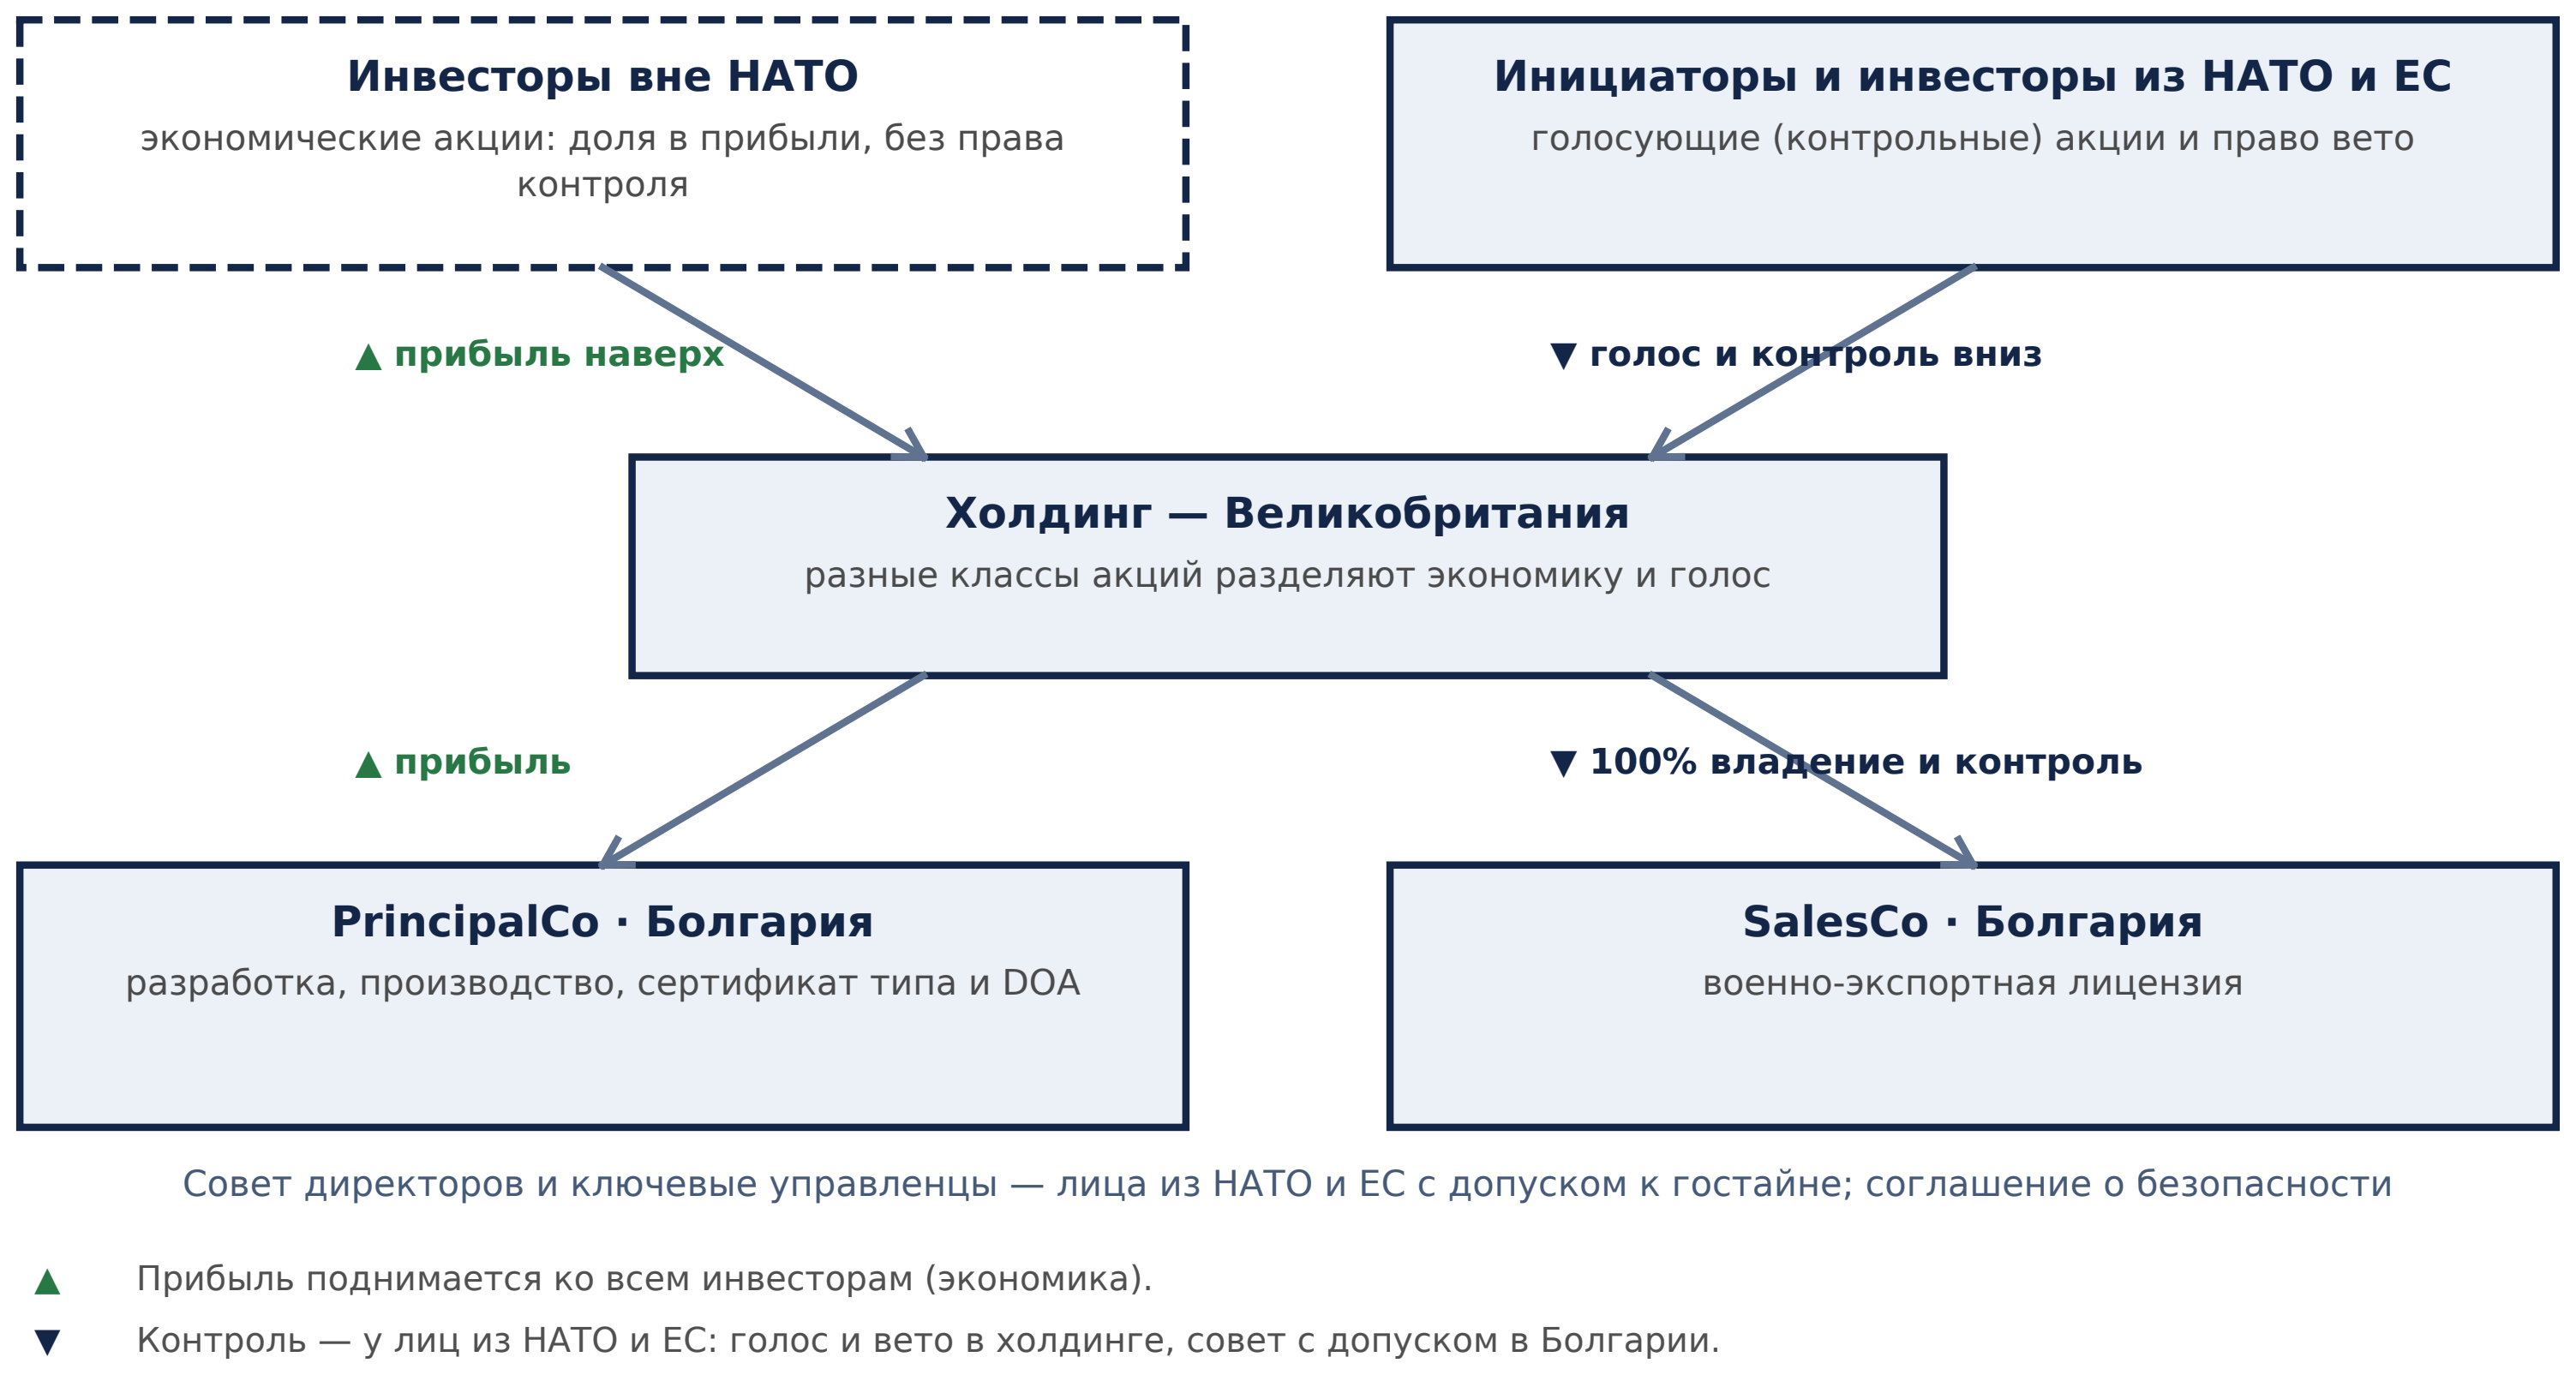
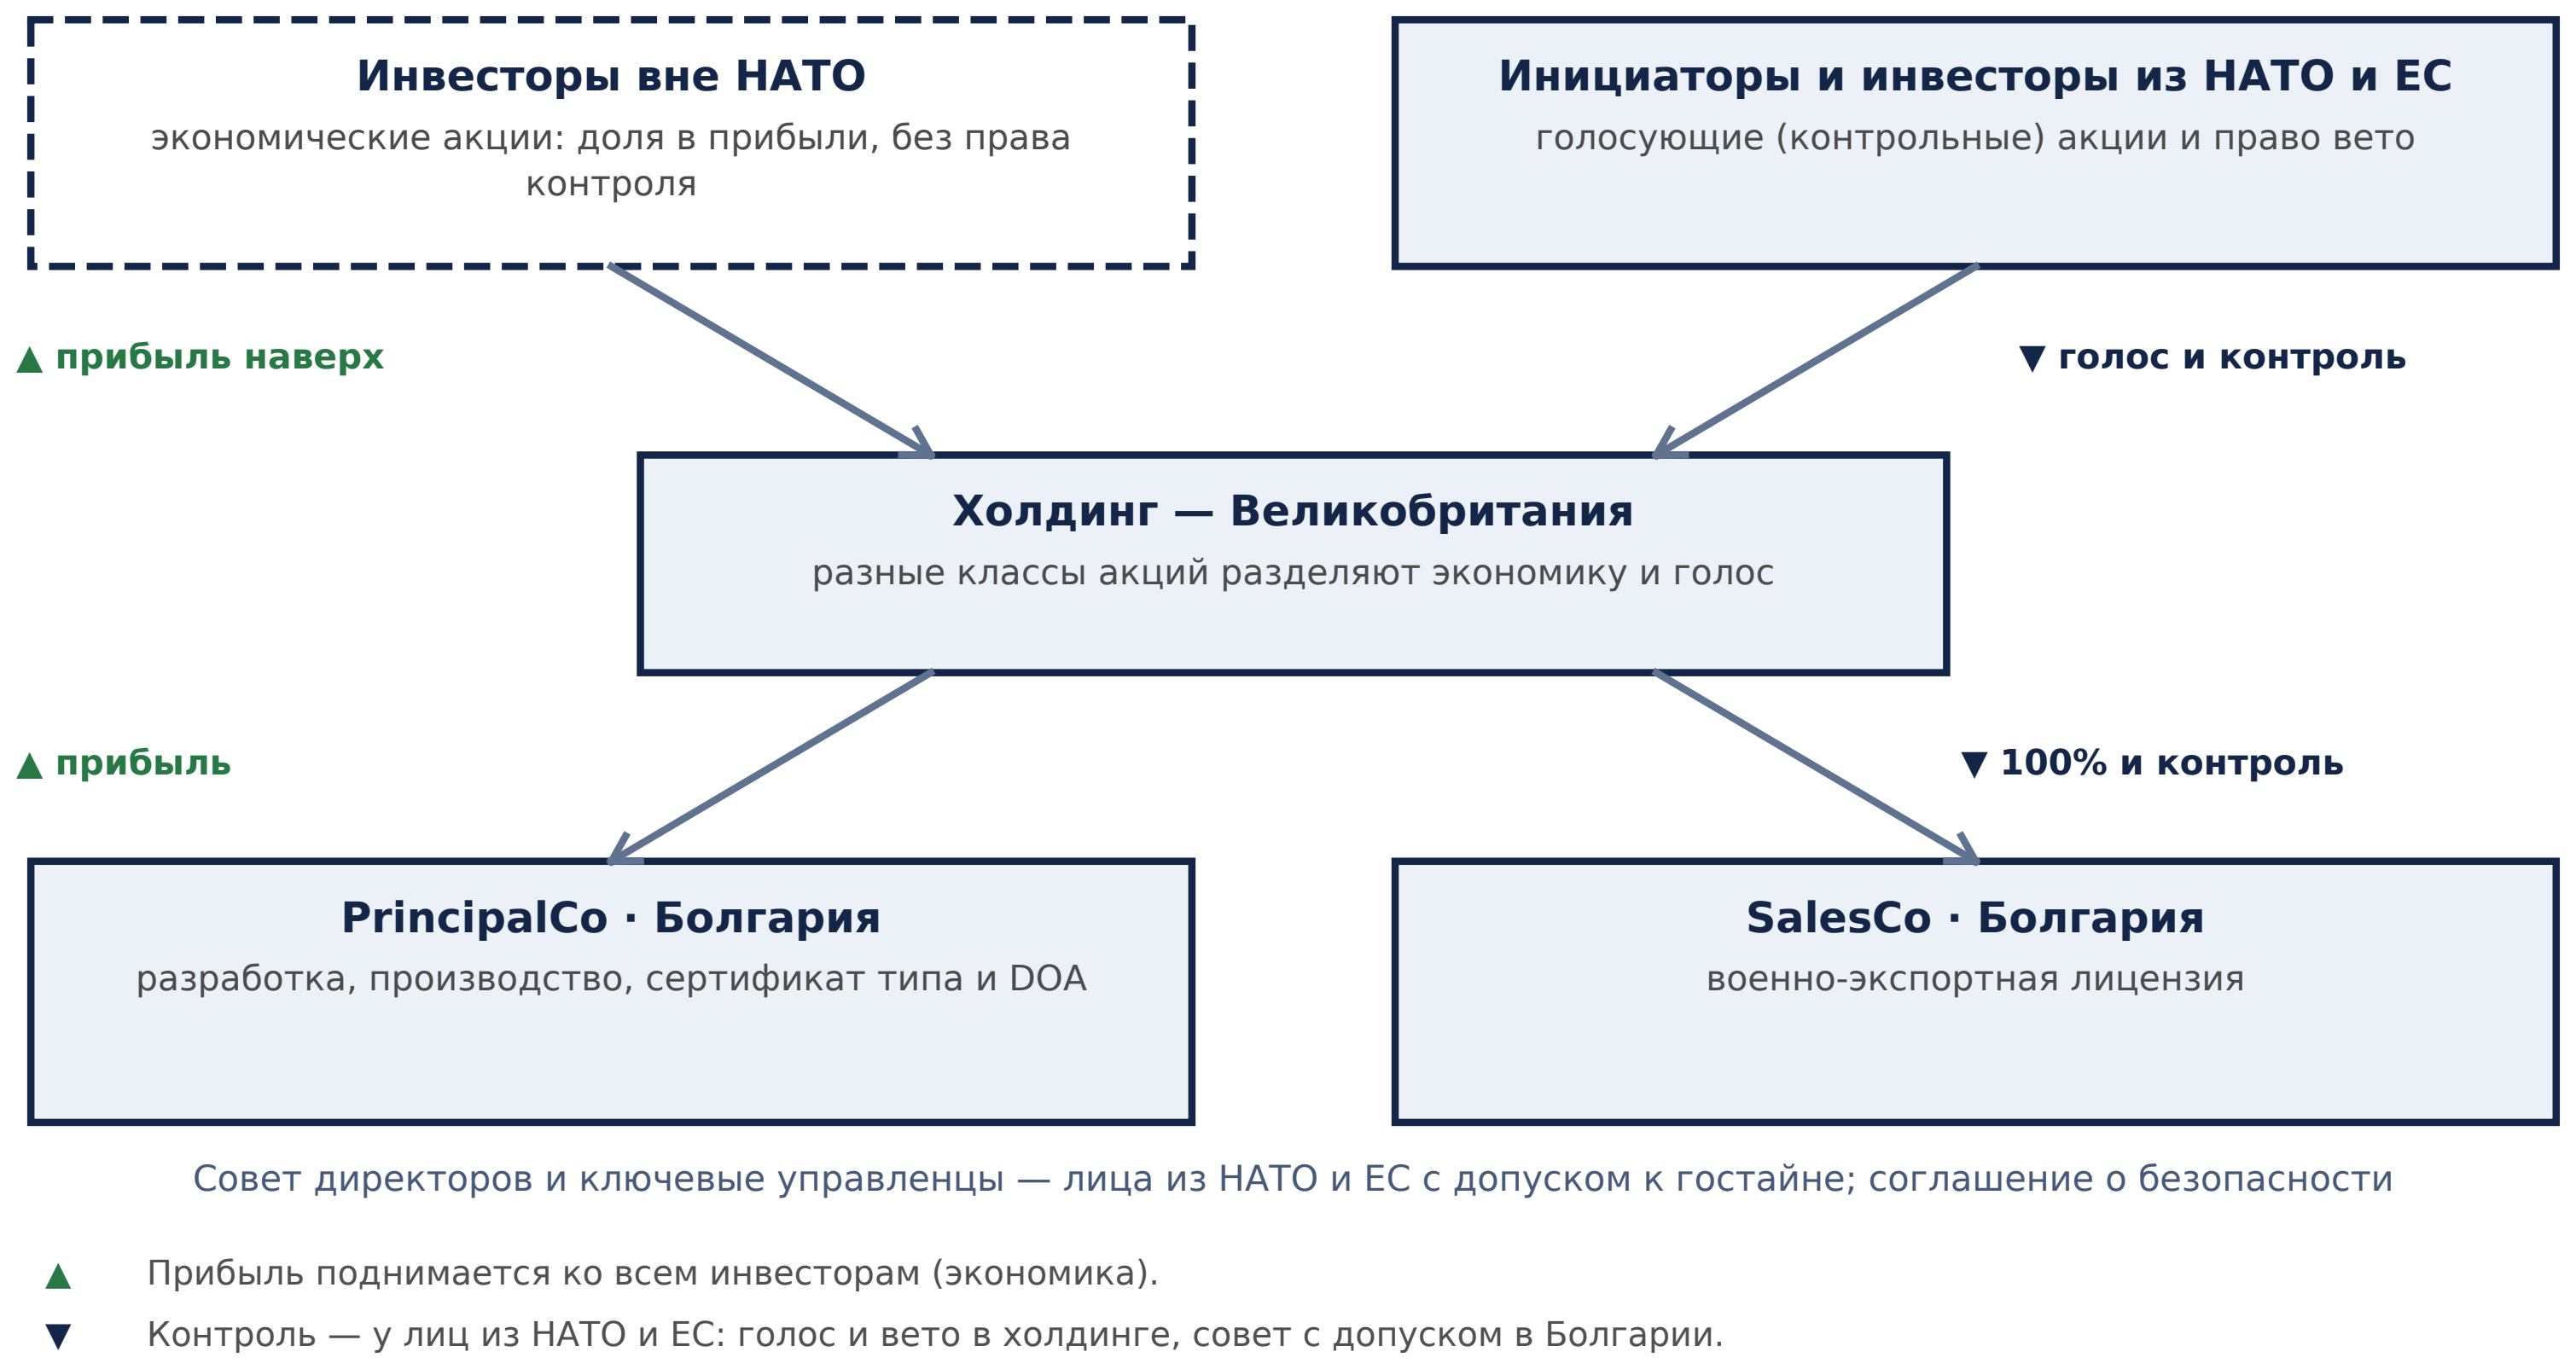
Control diagram: move flow labels clear of connector lines (no overlap)
https://claude.ai/code/session_01JTbBsiSWXRS1fuAGFXnjiU

diff --git a/gen_assets.py b/gen_assets.py
@@ -105,10 +105,10 @@ class A(FPDF):
         conn(58,y1+h1,80,y2); conn(152,y1+h1,130,y2)
         conn(80,y2+h2,58,y3); conn(130,y2+h2,152,y3)
         # flow markers
-        self.set_font("D","B",6.8); self.set_text_color(*GRN); self.set_xy(40,y1+h1+4.5); self.cell(36,3,"▲ прибыль наверх")
-        self.set_text_color(*NV); self.set_xy(122,y1+h1+4.5); self.cell(48,3,"▼ голос и контроль вниз")
-        self.set_text_color(*GRN); self.set_xy(40,y2+h2+4.5); self.cell(36,3,"▲ прибыль")
-        self.set_text_color(*NV); self.set_xy(122,y2+h2+4.5); self.cell(48,3,"▼ 100% владение и контроль")
+        self.set_font("D","B",6.8); self.set_text_color(*GRN); self.set_xy(16,y1+h1+4.8); self.cell(42,3,"▲ прибыль наверх")
+        self.set_text_color(*NV); self.set_xy(154,y1+h1+4.8); self.cell(40,3,"▼ голос и контроль")
+        self.set_text_color(*GRN); self.set_xy(16,y2+h2+4.8); self.cell(42,3,"▲ прибыль")
+        self.set_text_color(*NV); self.set_xy(150,y2+h2+4.8); self.cell(44,3,"▼ 100% и контроль")
         # caption under bottom companies
         cy=y3+h3+2
         self.set_font("D","",6.9); self.set_text_color(*STEEL)